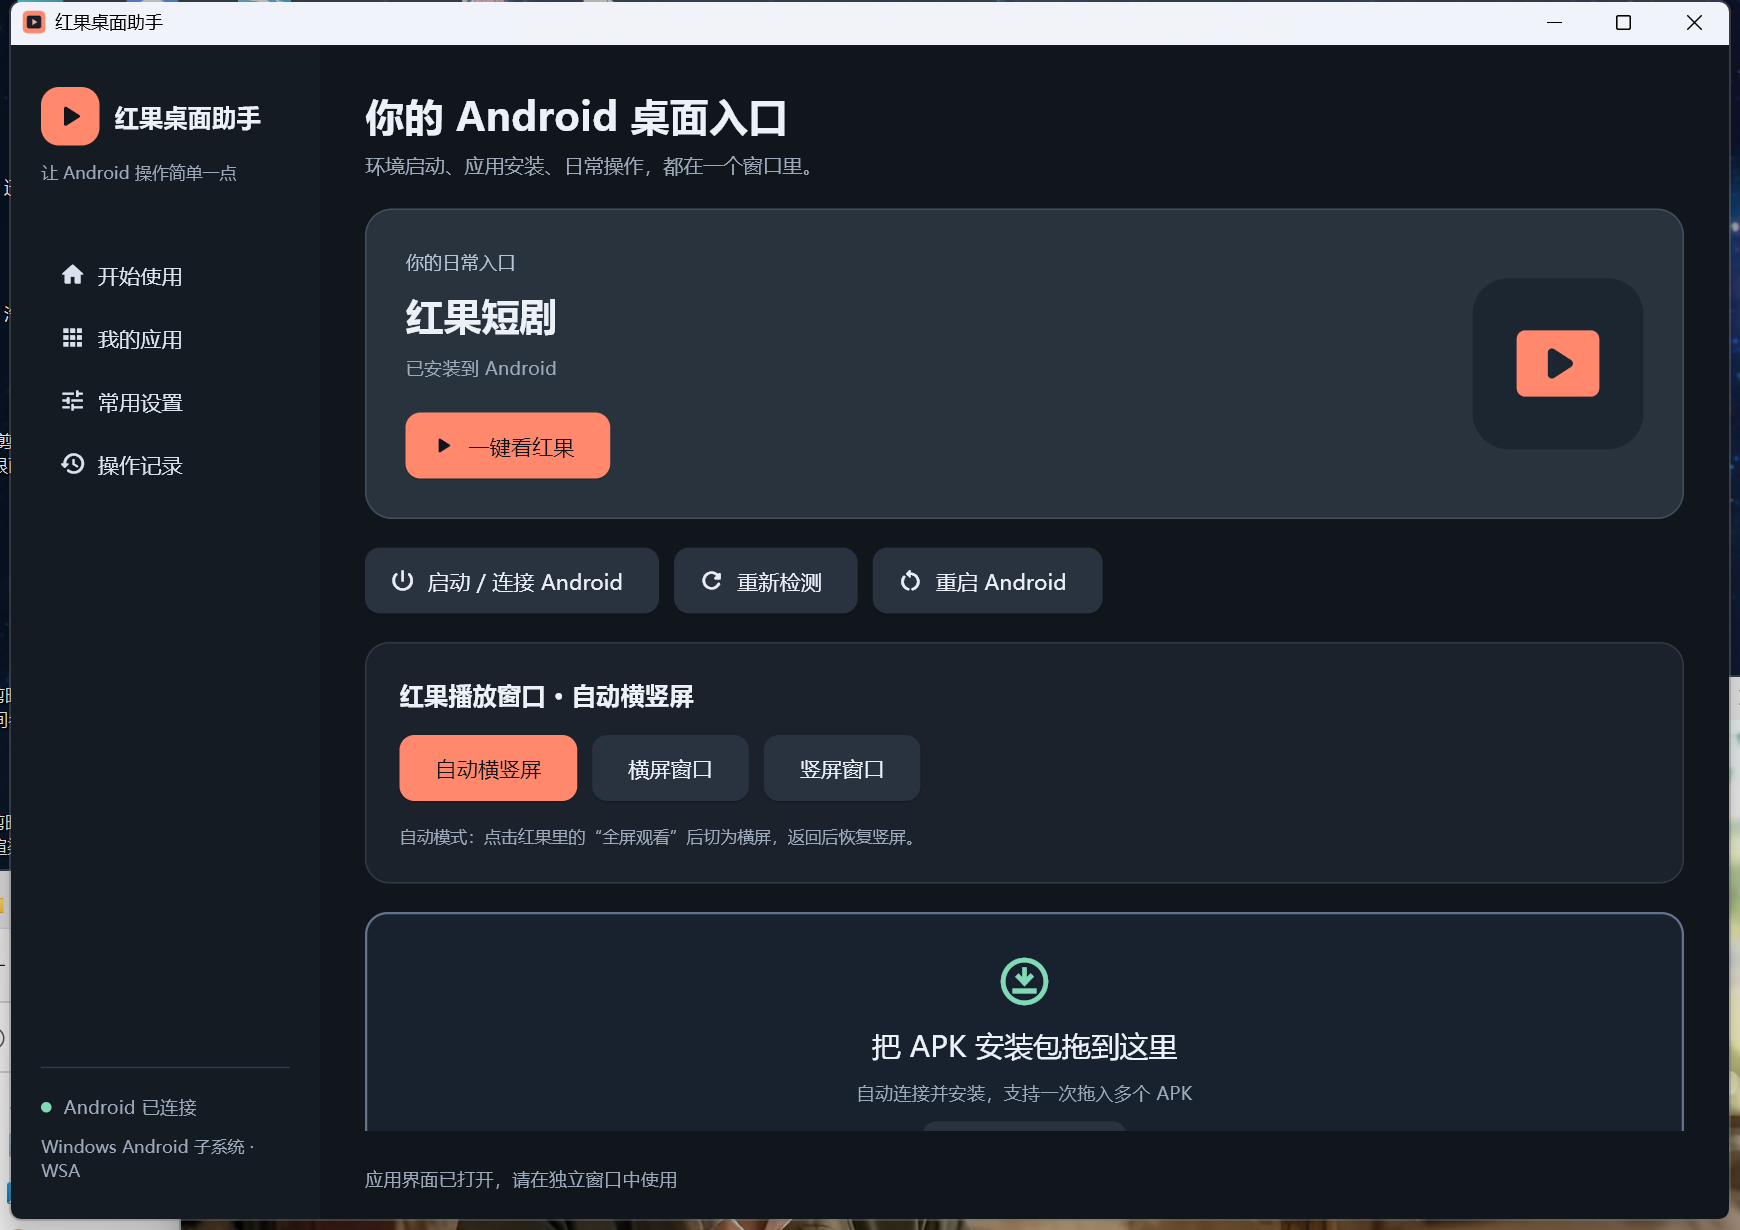
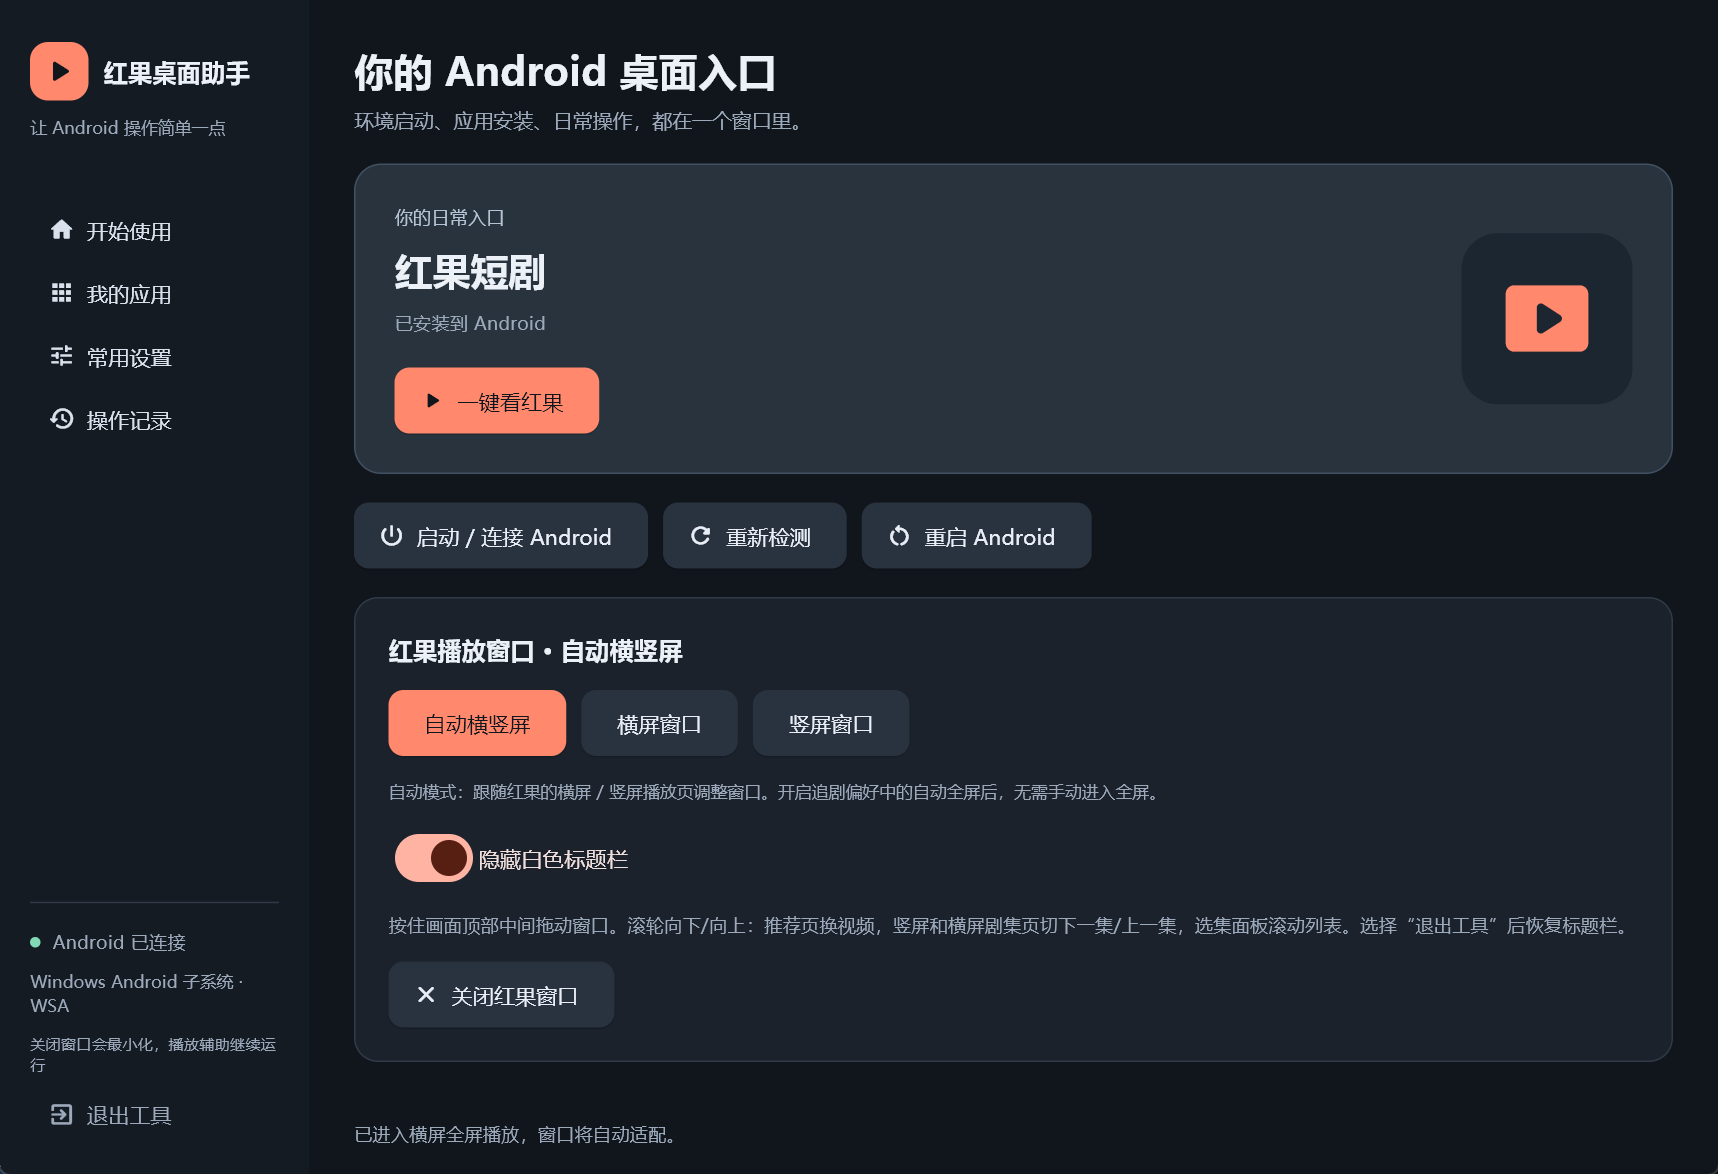
docs: showcase Windows playback with real app screenshots

diff --git a/README.md b/README.md
@@ -1,12 +1,45 @@
 # 红果桌面助手 · Hongguo Desktop Helper
 
-**红果短剧 Windows 11 桌面播放助手：通过 WSA（类似安卓模拟器）运行安卓 APP 安装包（APK），支持无标题栏、无边框播放及 APP 提供的 1080P 高清，工具不额外转码或压缩音视频。**
+**在 Windows 11 上安装红果短剧安卓 APP（APK），通过 WSA 安卓子系统直接播放 APP 的原画质、原声音，支持 1080P 高清、无标题栏无边框、自动横竖屏和鼠标滚轮切集。**
 
-简单理解：把红果短剧安卓 APP 装到 Windows 11 电脑上，直接在电脑里播放。WSA 是让安卓 APP 在 Windows 上运行的环境，使用方式类似模拟器；本助手为红果增加隐藏窗口外框、自动横竖屏、滚轮切集和观看进度保护，让播放窗口更简洁，也更适合鼠标操作。
+安装方式类似安卓模拟器，使用体验像 Windows 桌面播放器：APP 直接在电脑里运行，以独立窗口播放，融入任务栏和桌面。助手只负责窗口与操作辅助，画面和声音直接由 APP 播放，保留原有播放效果。
 
-清晰度取决于 APP 和片源提供的档位。声音由 APP 和 WSA 播放，助手不额外压缩音频；目前没有验证整条播放链路是否达到“音频无损”。助手支持安装其他 APK，但上述播放辅助目前针对红果适配。APK 由用户自行提供。
+- **画质与声音**：使用 APP 自己的播放链路和 1080P 高清档位，助手不额外压缩或转码音视频。
+- **无边框播放**：隐藏 Windows 标题栏与外框，保留完整画面；拖动画面顶部即可移动窗口。
+- **电脑追剧操作**：跟随视频自动横竖屏，鼠标滚轮切换推荐视频或剧集，保护已记录的观看进度。
 
-![助手界面](docs/images/overview.png)
+## 实际播放效果
+
+### 横屏无边框播放
+
+16:9 独立播放窗口，直接显示红果 APP 的视频画面。
+
+![红果横屏无边框播放](docs/images/landscape-playback.png)
+
+点出播放控件即可查看进度、切换清晰度和选集；下面是 APP 已显示 1080P 的实际界面。
+
+![红果横屏播放控件与 1080P 清晰度](docs/images/landscape-controls.png)
+
+### 推荐页与竖屏播放
+
+推荐页保留完整安卓界面；进入剧集后，播放器自动适应横屏或竖屏。
+
+<table>
+  <tr>
+    <th>推荐页 · 滚轮换视频</th>
+    <th>竖屏播放 · 无窗口外框</th>
+  </tr>
+  <tr>
+    <td width="50%"><img src="docs/images/recommendation.png" alt="红果 APP 推荐页" width="360"></td>
+    <td width="50%"><img src="docs/images/portrait-playback.png" alt="红果竖屏无边框播放" width="360"></td>
+  </tr>
+</table>
+
+### 助手操作界面
+
+一键打开红果、切换播放窗口模式、拖入 APK 安装，都在中文界面中完成。
+
+![红果桌面助手操作界面](docs/images/overview.png)
 
 ## 给本机 Agent 的安装指令
 

diff --git a/docs/usage.md b/docs/usage.md
@@ -11,12 +11,12 @@
 “常用设置”可以设置智能起播、本机观看进度保护、自动全屏、清晰度和标题栏。
 
 - 自动横竖屏根据实际页面切换 16:9 或 9:16 窗口，也可以固定横屏或竖屏。
-- “隐藏白色标题栏”让红果以无标题栏、无边框的窗口显示，保留完整安卓画面。这里的“无窗口”指隐藏窗口外框，APP 的播放窗口和界面仍然存在。画面顶部中间区域可拖动窗口。
+- “隐藏白色标题栏”让红果以无标题栏、无边框的窗口显示，保留完整安卓画面。画面顶部中间区域可拖动窗口。
 - 推荐页滚轮上下切换内容；播放页上下切集；选集面板滚动列表。鼠标位于其他软件时不接管滚轮。
 - 智能起播只在符合推荐集数与实际进入集数的规则时回到第 1 集。本机已记录进度会受到保护。
 - 清晰度使用 APK 自己提供的档位，可优先选择 1080P 或 720P；实际画质取决于 APP 和片源提供的档位，不通过拉伸伪造分辨率。
 
-播放图像、声音、登录、节目加载与应用服务均由红果 APK 和 WSA 处理。助手不录屏后再播放，也不对音视频做二次转码或压缩；整条播放链路的“音频无损”尚未验证，不能作为效果保证。工具识别的是已验证版本的界面控件；APK 升级后可能需要适配。其他 APK 可以安装，但红果专用的播放辅助不保证适用。
+播放图像、声音、登录、节目加载与应用服务均由红果 APK 和 WSA 处理。助手只负责窗口与操作辅助，不对音视频做二次转码或压缩。工具识别的是已验证版本的界面控件；APK 升级后可能需要适配。其他 APK 可以安装，但红果专用的播放辅助不保证适用。
 
 ## 关闭与退出
 

diff --git a/docs/release-notes.md b/docs/release-notes.md
@@ -1,8 +1,10 @@
 # 红果桌面助手 v0.1.0
 
-**红果短剧 Windows 11 桌面播放助手：通过 WSA（类似安卓模拟器）运行安卓 APP 安装包（APK），支持无标题栏、无边框播放及 APP 提供的 1080P 高清，工具不额外转码或压缩音视频。**
+**在 Windows 11 上安装红果短剧安卓 APP（APK），通过 WSA 安卓子系统直接播放 APP 的原画质、原声音，支持 1080P 高清、无标题栏无边框、自动横竖屏和鼠标滚轮切集。**
 
-直接在电脑上运行红果安卓 APP，提供自动横竖屏、鼠标滚轮切集和观看进度保护。实际画质取决于 APP 和片源；整条播放链路的音频无损效果尚未验证。其他 APK 可以安装，播放辅助目前针对红果适配。
+安装方式类似安卓模拟器，使用体验像 Windows 桌面播放器：APP 在独立窗口中直接播放，助手不额外压缩或转码音视频。提供自动横竖屏、鼠标滚轮切集和观看进度保护。
+
+[查看推荐页、横屏及竖屏的实际播放截图](https://github.com/xiaotu6e/hongguo-desktop#实际播放效果)。
 
 - 公开 Python/Flet、Java 页面读取和 C++ 窗口组件源码。
 - 提供源码/成品安装入口、环境检查与 Agent 操作说明。
@@ -12,4 +14,4 @@
 
 适用范围为 Windows 11 x64。源码运行需要 Python 3.11+；兼容修复需要 WSL 与 Linux 镜像工具。WSA/APK 不包含在助手 ZIP 中，来源和准备步骤见仓库文档。
 
-本次发布文件的离线检查记录见 docs/validation.md。新的通用安装/修复流程尚未在第二台全新电脑完成端到端验证；实际播放仍需人工确认。
+安装步骤、兼容范围和检查记录见[仓库文档](https://github.com/xiaotu6e/hongguo-desktop#文档)。

diff --git a/docs/images/README.md b/docs/images/README.md
@@ -1,0 +1,13 @@
+# 界面截图
+
+本目录展示红果桌面助手 v0.1.0 在 Windows 11 上运行的实际界面，安卓环境为 WSA 2407.40000.4.0，红果 APK 为 7.3.9.32。
+
+| 文件 | 展示内容 |
+| --- | --- |
+| landscape-playback.png | 16:9 横屏无边框播放 |
+| landscape-controls.png | 横屏播放控件、1080P 档位和选集入口 |
+| recommendation.png | 红果 APP 推荐页 |
+| portrait-playback.png | 竖屏无边框剧集播放 |
+| overview.png | 助手中文操作界面 |
+
+截图直接截取 APP 窗口或助手界面，保存为 PNG，未增强或重绘画面。剧集画面和 APP 标识来自红果，仅用于展示本工具与 APP 配合运行的效果。
